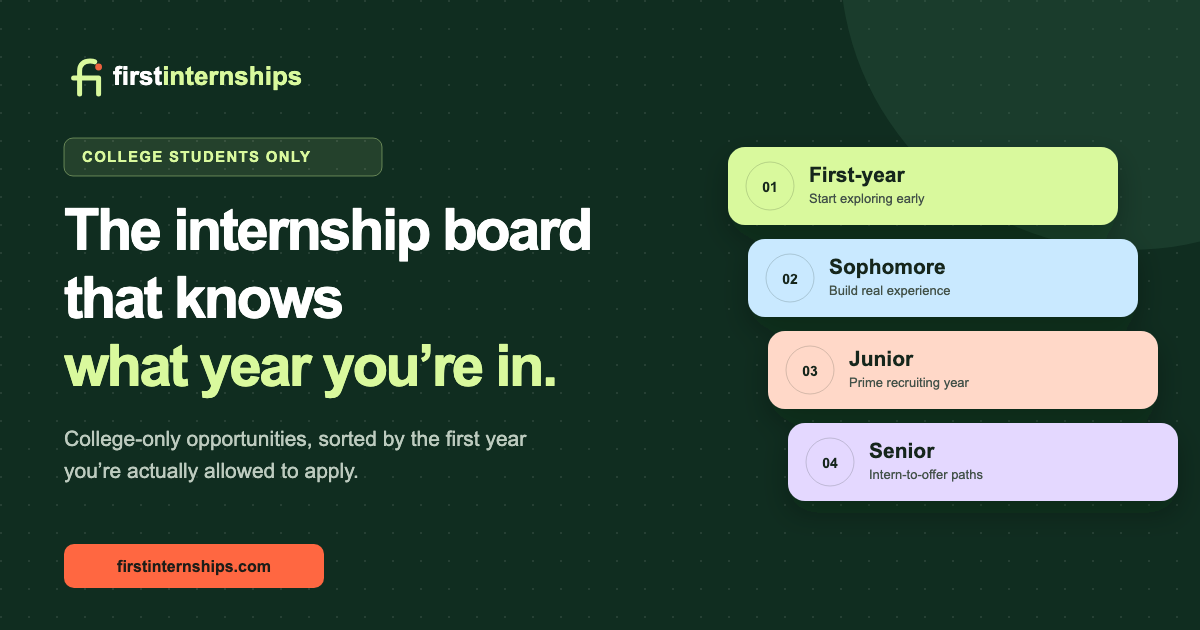
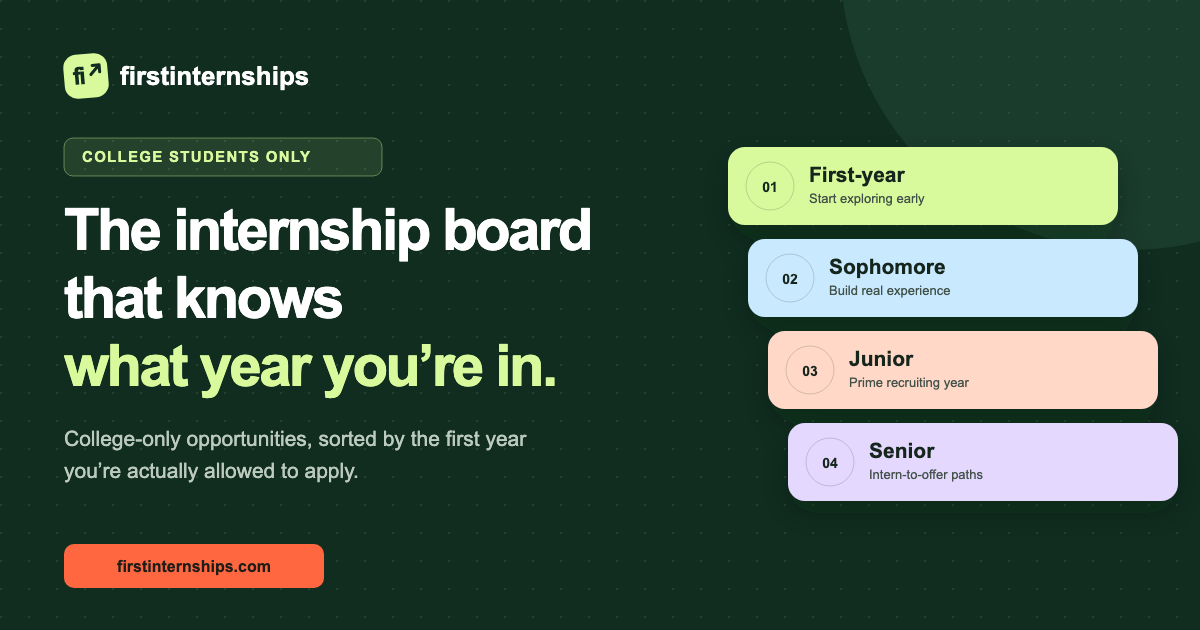
Restore original FirstInternships identity

Changed region(s): [[0.0308, 0.0603, 0.2775, 0.181]]

diff --git a/src/styles.css b/src/styles.css
@@ -1,6 +1,6 @@
 :root{--ink:#14251b;--muted:#65726a;--forest:#102d20;--paper:#f7f6f0;--line:#dcded5;--orange:#ff6741;--lime:#d9f99d}
 *{box-sizing:border-box}html{scroll-behavior:smooth;scroll-padding-top:90px}body{margin:0;background:var(--paper);color:var(--ink);font:15px/1.65 'DM Sans',sans-serif;-webkit-font-smoothing:antialiased}button,input,select,textarea{font:inherit;color:inherit}button,a,input,select,textarea{-webkit-tap-highlight-color:transparent}a{color:inherit;text-decoration:none}button{cursor:pointer}button:disabled{cursor:default;opacity:.45}h1,h2,h3{font-family:'Manrope',sans-serif;line-height:1.2;letter-spacing:-.7px}h2{font-size:30px;margin:0 0 18px}h3{font-size:18px}p{margin:0 0 18px}a:focus-visible,button:focus-visible,input:focus-visible,select:focus-visible,textarea:focus-visible{outline:3px solid #467cbd;outline-offset:4px}a:hover{color:#bd4727}.site-shell{overflow:clip}.container,.board-section{width:min(1240px,calc(100% - 48px));margin:auto}.section{padding:70px 0}.eyebrow{font-size:10px;font-weight:800;letter-spacing:.1em;text-transform:uppercase;color:var(--muted);margin:0 0 10px}.muted{color:var(--muted)}.small-note{font-size:12px;color:var(--muted);line-height:1.7}.text-link{display:inline-flex;align-items:center;gap:7px;font-size:13px;font-weight:700;color:#a93f23}.sr-only{position:absolute;width:1px;height:1px;overflow:hidden;clip:rect(0,0,0,0);white-space:nowrap}.skip-link{position:fixed;left:16px;top:-100px;z-index:100;background:white;padding:12px;border-radius:8px}.skip-link:focus{top:12px}.button{display:inline-flex;justify-content:center;align-items:center;gap:8px;padding:13px 18px;border:1px solid transparent;border-radius:9px;background:var(--orange);font-size:13px;font-weight:800;color:#251e16;line-height:1.4}.button:hover{background:#ff7d5c;color:var(--ink)}.button.secondary{background:white;border-color:var(--line);color:var(--ink)}.button.secondary:hover{background:#eff3eb}.button.small{font-size:11px;padding:10px}.quiet-button{background:transparent;border:0;text-decoration:underline;font-size:12px;padding:10px}.storage-warning{padding:12px 24px;margin:0;background:#fff0d4;font-size:13px;text-align:center}
-.site-header{height:74px;padding:0 max(24px,calc((100vw - 1240px)/2));display:flex;align-items:center;gap:32px;background:rgba(247,246,240,.96);backdrop-filter:blur(16px);border-bottom:1px solid var(--line);position:sticky;top:0;z-index:50}.brand{display:inline-flex;align-items:center;gap:8px;white-space:nowrap;font-family:'Manrope',sans-serif;font-weight:800;letter-spacing:-.6px;font-size:17px}.brand:hover{color:inherit}.brand-mark{width:32px;height:36px;display:grid;flex:0 0 auto;place-items:center;color:var(--forest)}.brand-mark svg{width:100%;height:100%;overflow:visible}.brand-mark-ligature{fill:none;stroke:currentColor;stroke-width:5;stroke-linecap:round;stroke-linejoin:round}.brand-mark-dot{fill:var(--orange)}.brand-name{display:inline-flex}.brand-name-accent{color:#42634c}.brand:hover .brand-name-accent{color:#294d35}.main-nav{display:flex;gap:26px;margin-left:auto;font-size:12px;font-weight:700;color:#4e5d53}.saved-nav{display:flex;align-items:center;gap:7px;border:1px solid var(--line);border-radius:9px;padding:8px 12px;background:white;font-size:12px;font-weight:700}.saved-nav span{background:#eef0e9;padding:0 6px;border-radius:10px;font-size:10px}.menu-button{display:none;border:0;background:transparent;padding:6px}.mobile-menu{position:absolute;left:0;right:0;top:100%;background:var(--paper);padding:20px;border-bottom:1px solid var(--line);display:flex;flex-direction:column;gap:15px}
+.site-header{height:74px;padding:0 max(24px,calc((100vw - 1240px)/2));display:flex;align-items:center;gap:32px;background:rgba(247,246,240,.96);backdrop-filter:blur(16px);border-bottom:1px solid var(--line);position:sticky;top:0;z-index:50}.brand{display:inline-flex;align-items:center;gap:10px;white-space:nowrap;font-family:'Manrope',sans-serif;font-weight:800;letter-spacing:-.6px;font-size:17px}.brand:hover{color:inherit}.brand-mark{width:32px;height:32px;display:flex;flex:0 0 auto;align-items:center;justify-content:center;gap:1px;border-radius:10px;background:var(--forest);color:var(--lime);font-family:'Manrope',sans-serif;font-weight:800;line-height:1;transform:rotate(-5deg);box-shadow:0 5px 13px #102d2021}.brand-mark-letters{font-size:14px;letter-spacing:-1px}.brand-mark-arrow{font-size:10px;transform:translateY(-1px)}.brand-name{display:inline-flex}.main-nav{display:flex;gap:26px;margin-left:auto;font-size:12px;font-weight:700;color:#4e5d53}.saved-nav{display:flex;align-items:center;gap:7px;border:1px solid var(--line);border-radius:9px;padding:8px 12px;background:white;font-size:12px;font-weight:700}.saved-nav span{background:#eef0e9;padding:0 6px;border-radius:10px;font-size:10px}.menu-button{display:none;border:0;background:transparent;padding:6px}.mobile-menu{position:absolute;left:0;right:0;top:100%;background:var(--paper);padding:20px;border-bottom:1px solid var(--line);display:flex;flex-direction:column;gap:15px}
 .hero{background:var(--forest);color:#fff;position:relative}.hero:before{content:'';position:absolute;inset:0;opacity:.13;background-image:radial-gradient(circle at 1px 1px,#fff 1px,transparent 0);background-size:28px 28px;pointer-events:none}.hero-inner{position:relative;width:min(1240px,calc(100% - 48px));margin:auto;display:grid;grid-template-columns:1.25fr .75fr;gap:90px;align-items:center;padding:86px 0 92px}.hero-eyebrow{display:inline-flex;gap:8px;align-items:center;color:var(--lime);font-size:10px;letter-spacing:.08em;text-transform:uppercase;font-weight:700;border:1px solid #496048;border-radius:7px;padding:7px 11px;margin-bottom:25px}.hero h1{font-size:clamp(44px,5.2vw,70px);letter-spacing:-3.7px;line-height:1.04;margin:0}.hero h1 em{font-style:normal;color:var(--lime)}.hero-subtitle{color:#b9c8bd;font-size:17px;max-width:600px;line-height:1.75;margin:26px 0}.hero-search{display:flex;gap:11px;align-items:center;background:white;color:var(--ink);padding:8px 8px 8px 16px;border-radius:12px;box-shadow:0 18px 45px #0003}.hero-search input{min-width:0;flex:1;border:0;background:white;outline-offset:1px;font-size:13px}.hero-search button{display:flex;align-items:center;gap:8px;border:0;background:var(--orange);border-radius:8px;padding:13px 16px;font-size:12px;font-weight:800;white-space:nowrap}.hero-trust{display:flex;gap:25px;margin-top:20px;color:#b7c7b9;font-size:11px}.hero-trust span{display:flex;gap:7px;align-items:center}.hero-trust svg{color:var(--lime)}.hero-visual{transform:rotate(-2deg)}.visual-heading{font-size:9px;letter-spacing:.13em;color:#adc0b0;margin-bottom:16px}.hero-visual>a{display:flex;align-items:center;gap:16px;padding:17px 20px;margin:9px 0;border-radius:13px;background:var(--year-color);color:var(--ink);box-shadow:0 8px 30px #0002;transition:transform .2s}.hero-visual>a:hover{transform:translateX(5px)}.hero-visual>a>span{width:43px;height:43px;display:grid;place-items:center;border:1px solid #14251b33;border-radius:50%;font-size:12px;font-weight:800}.hero-visual strong{font-family:'Manrope',sans-serif;font-size:18px}.hero-visual small{display:block;color:#425348;font-size:11px}.hero-visual svg{margin-left:auto}.visual-footnote{display:flex;gap:6px;margin-top:20px;font-size:10px;color:#adc0b0}
 .year-grid{display:grid;grid-template-columns:repeat(4,1fr);gap:12px;margin:28px 0 20px}.year-grid>a{position:relative;border:1px solid var(--line);border-radius:13px;background:#fff;padding:22px;display:grid;grid-template-columns:auto 1fr;gap:2px 13px;align-items:center}.year-grid>a:hover{border-color:#a4b293;color:var(--ink);background:#fbfff6}.year-number{grid-row:1/3;display:grid;place-items:center;width:43px;height:43px;background:var(--year-color);border-radius:50%;font-size:11px;font-weight:800}.year-grid strong{font-family:'Manrope',sans-serif;font-size:16px}.year-grid small{color:var(--muted);font-size:10px}.year-grid svg{position:absolute;right:12px;top:12px;color:#64745e}.field-links{display:flex;gap:8px;flex-wrap:wrap;margin:22px 0}.field-links a{display:inline-flex;gap:8px;align-items:center;border:1px solid var(--line);padding:8px 12px;border-radius:8px;background:#fff;font-size:11px;font-weight:700}.field-links a:hover{background:var(--lime);color:var(--ink)}.section-heading{display:flex;align-items:flex-end;justify-content:space-between;gap:25px;margin-bottom:30px}.section-heading h2{font-size:38px;margin-bottom:8px}.section-heading p:not(.eyebrow){font-size:13px;color:var(--muted);margin:0}.result-count{border:1px solid var(--line);border-radius:30px;padding:6px 12px;background:white;font-size:11px;white-space:nowrap}
 .board-section{padding:25px 0 65px}.board-layout{display:grid;grid-template-columns:245px minmax(0,1fr);gap:38px}.filters{align-self:start;position:sticky;top:98px;padding:20px;border:1px solid var(--line);border-radius:13px;background:#f1f2e9}.filter-heading{display:flex;align-items:center;justify-content:space-between;margin-bottom:20px;font-size:12px}.filter-heading button{border:0;background:transparent;text-decoration:underline;color:var(--muted);font-size:10px}.search-label{display:block;margin:17px 0 7px;font-size:10px;text-transform:uppercase;font-weight:800;letter-spacing:.04em}.filter-search{display:flex;align-items:center;gap:7px;border:1px solid var(--line);background:white;border-radius:7px;padding:9px}.filter-search input{width:100%;min-width:0;font-size:11px;border:0;outline-offset:1px}.filters select{width:100%;padding:9px 7px;border:1px solid var(--line);background:#fff;border-radius:7px;font-size:11px}.filters fieldset{border:0;padding:0;margin:22px 0}.filters legend{font-size:10px;text-transform:uppercase;font-weight:800;letter-spacing:.04em;margin-bottom:5px}.filters fieldset label{display:flex;gap:7px;margin:10px 0;font-size:11px;align-items:center}.filters input[type=checkbox]{accent-color:var(--forest)}.filter-note{display:flex;gap:8px;padding:13px 0;margin:18px 0 5px;border-top:1px solid var(--line)}.filter-note svg{flex-shrink:0;margin-top:3px}.filter-note p{font-size:10px;color:var(--muted);margin:0}.filter-note strong{display:block;color:var(--ink)}.filters>.text-link{font-size:10px}.year-group{margin-bottom:35px}.group-heading{display:flex;align-items:center;gap:12px;margin-bottom:14px}.group-heading .eyebrow{font-size:8px;margin:0 0 2px}.group-heading h3{margin:0;font-size:18px}.group-number{width:38px;height:38px;display:grid;place-items:center;border:1px solid var(--line);border-radius:50%;font-size:10px;background:#e9eddf;font-weight:800}.cards{display:flex;flex-direction:column;gap:10px}.job-card{position:relative;background:white;border:1px solid var(--line);border-radius:13px;transition:box-shadow .2s,border-color .2s}.job-card:hover{box-shadow:0 10px 30px #2137250c;border-color:#aeb7a4}.save-button{position:absolute;top:14px;right:14px;z-index:2;width:31px;height:31px;display:grid;place-items:center;border:1px solid var(--line);border-radius:50%;background:white;color:#66776d}.save-button.is-saved{color:var(--forest);border-color:var(--forest);background:#eaf5df}.card-main{display:grid;grid-template-columns:auto minmax(0,1fr) 155px;gap:15px;align-items:start;padding:24px 58px 24px 22px}.card-main:hover{color:var(--ink)}.company-mark{width:43px;height:43px;display:grid;place-items:center;border-radius:11px;color:white;font-size:11px;font-weight:800;flex-shrink:0}.company-line{color:var(--muted);font-size:10px;font-weight:700}.job-copy h3{font-size:16px;line-height:1.4;margin:3px 0 7px;letter-spacing:-.35px}.job-copy>p{font-size:11px;color:var(--muted);line-height:1.65;margin:0 0 9px}.job-meta{display:flex;gap:7px 14px;flex-wrap:wrap;font-size:10px;color:var(--muted)}.job-meta span:first-child{color:#39613f;font-weight:700}.status{display:inline-block;font-size:8px;padding:3px 6px;margin-top:8px;background:#f2f4ec;color:#5b6d57;border-radius:4px;font-weight:700}.status.closed{background:#fff0e7;color:#a6502b}.eligibility{padding-left:16px;border-left:1px solid #eeeee6;align-self:stretch;display:flex;flex-direction:column;justify-content:center;gap:5px}.eligibility>span:first-child{text-transform:uppercase;letter-spacing:.04em;color:var(--muted);font-size:8px;font-weight:700}.eligibility strong{font-size:11px;line-height:1.6}.eligibility small{font-size:8px;color:var(--muted);line-height:1.6}.view-link{display:flex;gap:4px;align-items:center;color:#a93f23;font-size:10px;font-weight:700;margin-top:8px}.directory-note{font-size:11px;color:var(--muted);padding:17px 0;border-top:1px solid var(--line)}.empty-state{background:#fff;border:1px solid var(--line);border-radius:15px;padding:60px 25px;text-align:center}.empty-state>svg{color:#678165;margin-bottom:15px}.empty-state h3{margin:0 0 10px}.empty-state p{font-size:13px;color:var(--muted)}.ad-slot{padding:16px;margin:30px 0;background:#f0f0e8;min-height:130px;text-align:center;border-radius:10px}.ad-slot>span{display:block;margin-bottom:10px;text-transform:uppercase;font-size:9px;color:#6d746a;letter-spacing:.07em}

diff --git a/src/polish.css b/src/polish.css
@@ -6,9 +6,10 @@ summary:focus-visible { outline: 3px solid #467cbd; outline-offset: 4px; border-
 .container, .board-section, .hero-inner { width: min(1240px, calc(100% - 72px)); }
 .site-header { height: 84px; background: #faf9f5f5; gap: 32px; }
 .brand { font-size: 20px; letter-spacing: -.9px; }
-.brand-mark { width: 36px; height: 40px; }
-.brand-mark-ligature { stroke-width: 4.6; }
-.site-footer .brand-mark { background: none; box-shadow: none; color: var(--lime); }
+.brand-mark { width: 38px; height: 38px; border-radius: 12px; }
+.brand-mark-letters { font-size: 18px; }
+.brand-mark-arrow { font-size: 13px; }
+.site-footer .brand-mark { background: var(--lime); color: var(--forest); box-shadow: none; }
 .main-nav { font-size: 13px; gap: 28px; }
 .main-nav a { min-height: 40px; display: inline-flex; align-items: center; padding: 0 3px; border-radius: 9px; }
 .main-nav a:hover { color: var(--forest); }
@@ -384,7 +385,9 @@ summary:focus-visible { outline: 3px solid #467cbd; outline-offset: 4px; border-
   .container, .board-section, .hero-inner { width: calc(100% - 40px); }
   .site-header { height: 72px; padding: 0 20px; gap: 13px; }
   .brand { font-size: 16px; }
-  .brand-mark { width: 29px; height: 33px; }
+  .brand-mark { width: 32px; height: 32px; border-radius: 10px; }
+  .brand-mark-letters { font-size: 15px; }
+  .brand-mark-arrow { font-size: 10px; }
   .saved-nav { font-size: 11px; padding: 8px 10px; }
   .hero-inner { grid-template-columns: 1fr; padding: 50px 0 54px; gap: 42px; }
   .hero h1 { font-size: clamp(43px, 7.6vw, 62px); letter-spacing: -2.8px; }

diff --git a/src/FirstInternships.jsx b/src/FirstInternships.jsx
@@ -103,12 +103,9 @@ function AdSlot({ slot, placement = "in-feed" }) {
 function BrandIdentity() {
   return <>
     <span className="brand-mark" aria-hidden="true">
-      <svg viewBox="0 0 48 48" focusable="false">
-        <path className="brand-mark-ligature" d="M17 40V17c0-6.5 4-10 10.5-10 2.1 0 3.6.3 4.6.8M11 24h25v16" />
-        <circle className="brand-mark-dot" cx="36" cy="13" r="3.4" />
-      </svg>
+      <span className="brand-mark-letters">fi</span><span className="brand-mark-arrow">↗</span>
     </span>
-    <span className="brand-name"><span>first</span><span className="brand-name-accent">internships</span></span>
+    <span className="brand-name">firstinternships</span>
   </>;
 }
 function Header({ planner, pageType }) {

diff --git a/docs/FirstInternships-Brand-Brief.md b/docs/FirstInternships-Brand-Brief.md
@@ -226,9 +226,9 @@ Near-black backgrounds, glowing blue accent, white type, data-viz motifs (node f
 - **Hierarchy feel:** one bold statement, lots of breathing room, minimal secondary text.
 
 ### Current website mark and wordmark
-- The current product identity is the lowercase wordmark `firstinternships` plus a custom **one-stroke `fi` signature**. Its uninterrupted crossbar joins the two initials, its rounded terminals make the brand feel approachable rather than institutional, and the coral `i` dot is the single memory accent.
+- The current product identity restores the original lowercase wordmark `firstinternships` plus the tilted **`fi↗` tile**. Its forest-and-lime field, compact initials and upward-right accent create a recognizable signature with more personality than the later unboxed and metaphor-first experiments.
 - The authoritative in-product component is `BrandIdentity` in `src/FirstInternships.jsx`. The vector source is `public/favicon.svg`; `favicon.ico`, `favicon-48.png`, `favicon-96.png` and `apple-touch-icon.png` are derived browser/app assets. `public/og-image.svg` and `public/og-image.png` carry the same symbol for social sharing.
-- Keep the mark text-free so it remains legible at 16px. Use the unboxed signature in navigation and the footer; use the flat forest field for favicons, touch icons and compact avatars where contrast is needed. Do not reintroduce the retired `f` tile, temporary `fi↗` tile, stair-arrow or F-launch marks. Do not add generic career metaphors such as graduation caps, briefcases, ladders, doors or arrows.
+- Preserve the slight counter-clockwise rotation in navigation and use the inverted lime tile on the forest footer. Use the flat forest field for favicons, touch icons and compact avatars. Do not replace the signature with the retired black `f` favicon, stair-arrow, F-launch or unboxed `fi` experiments.
 - On the live directory, use the established forest/paper system: forest `#102d20`, lime `#daf8a3`, coral `#ed623f`, paper `#faf9f5`, ink `#14251b`, and muted green `#59675f`. The word `internships` may use muted green on light surfaces and lime on the forest footer.
 - Keep the full wordmark next to the mark in navigation and the footer. The symbol alone is appropriate for favicons, app icons and compact avatars.
 - Any future mark change must update the inline component, SVG source, all raster/ICO derivatives and the Open Graph image together, then be checked at wide desktop, 390px mobile and 16–48px icon sizes.

diff --git a/docs/CLAUDE_CODE_PLAYBOOK.md b/docs/CLAUDE_CODE_PLAYBOOK.md
@@ -403,7 +403,7 @@ Personal timeline builder:
 
 Keep the existing editorial visual language unless the task explicitly calls for a redesign. New components should reuse established typography, colors, cards, buttons, spacing, radii, and responsive breakpoints before introducing new primitives.
 
-The current FirstInternships identity is the lowercase wordmark plus a custom one-stroke `fi` signature rendered by `BrandIdentity` in `src/FirstInternships.jsx`. The uninterrupted crossbar joins the two initials, rounded terminals keep the brand approachable, and the coral `i` dot is the sole memory accent. The navigation and footer use the unboxed signature; `public/favicon.svg` places the same form on a flat forest field for small-size contrast. The ICO/PNG browser icons, Apple touch icon and both Open Graph assets must stay visually synchronized. Do not restore the retired `f` favicon, `fi↗` tile, stair-arrow or F-launch marks, and do not add generic career metaphors such as caps, briefcases, ladders or arrows. If the mark changes, verify the header and footer on wide desktop and at 390px, inspect a 16–48px raster, rebuild every derived asset, and keep the home link's accessible name.
+The current FirstInternships identity restores the original tilted `fi↗` tile beside the lowercase `firstinternships` wordmark, rendered by `BrandIdentity` in `src/FirstInternships.jsx`. Its forest-and-lime field, compact initials and upward-right accent are the recognizable brand signature; preserve the slight rotation and do not replace it with a generic standalone arrow or an unboxed monogram. `public/favicon.svg` is the synchronized vector source; the ICO/PNG browser icons, Apple touch icon and both Open Graph assets must carry the same `fi↗` form. If the mark changes, verify the header and footer on wide desktop and at 390px, inspect a 16–48px raster, rebuild every derived asset, and keep the home link's accessible name.
 
 Required behavior:
 
